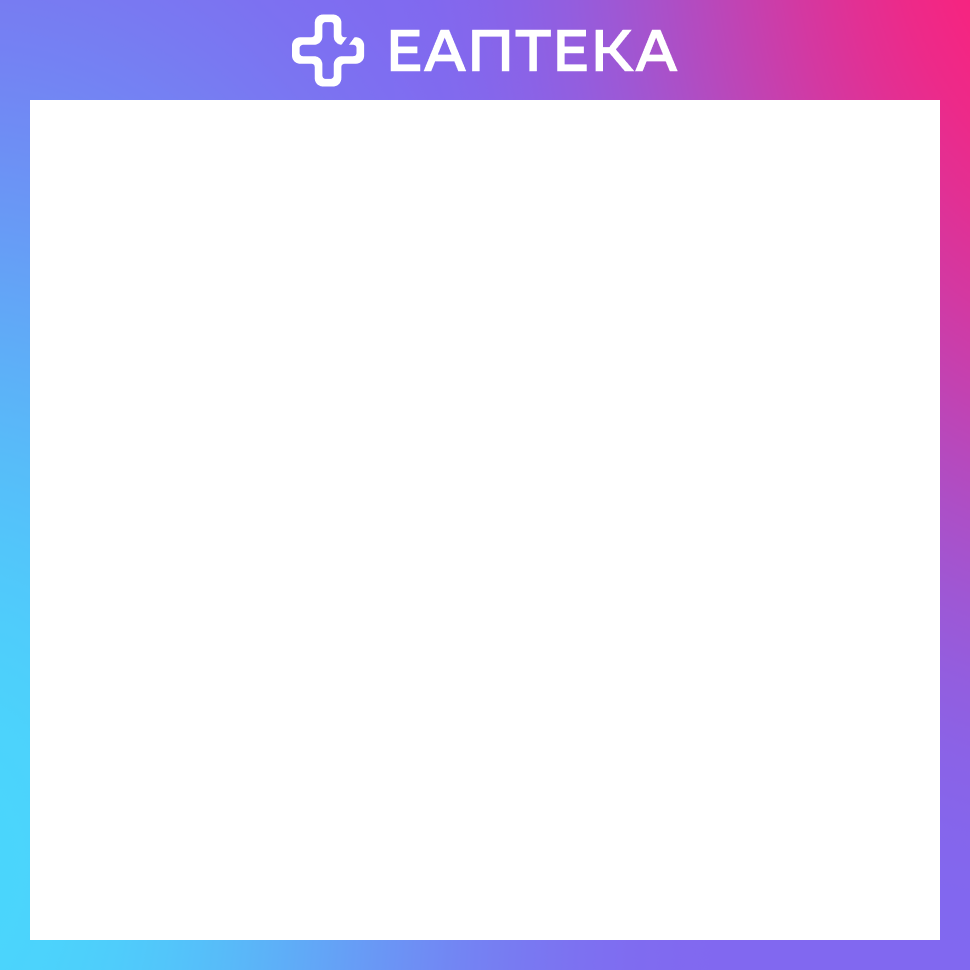
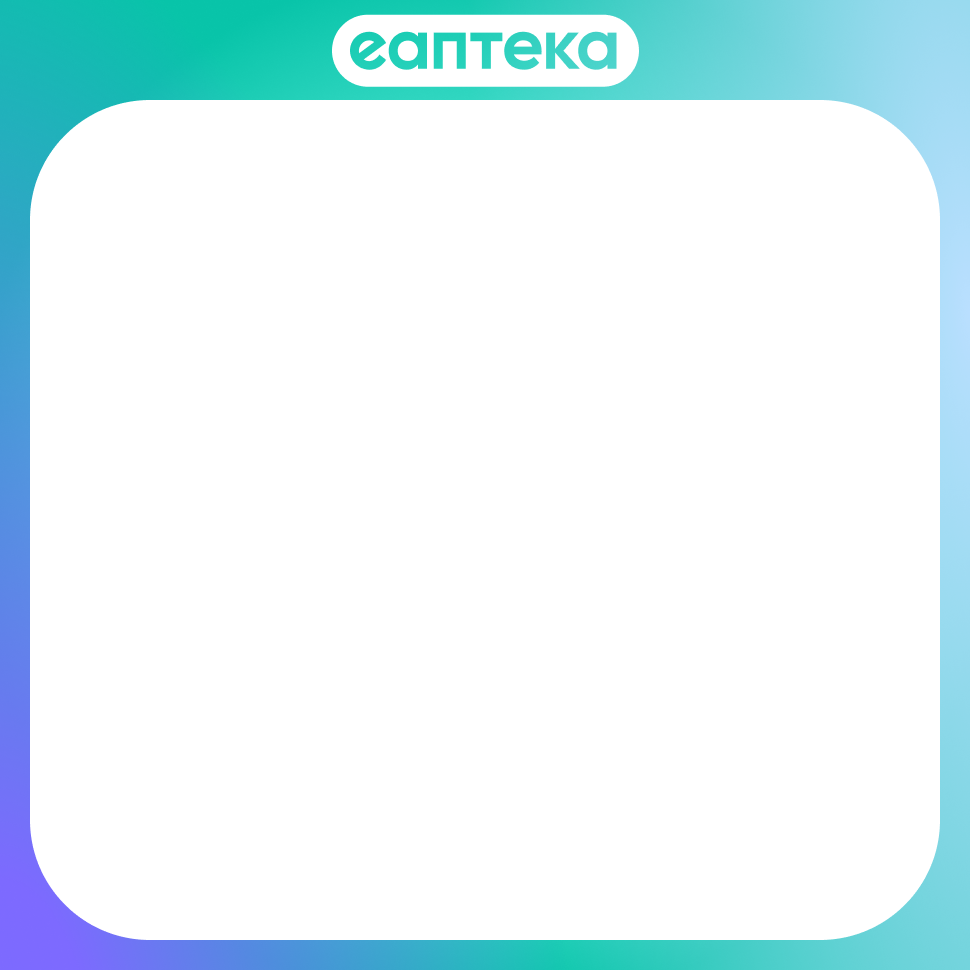
PRO-142: update url_filter method and added new frame

Changed region(s): [[0.0, 0.0, 1.0, 1.0]]

diff --git a/handler/feeds_handler.py b/handler/feeds_handler.py
@@ -2,8 +2,8 @@ import logging
 import xml.etree.ElementTree as ET
 
 from handler.allowed_urls import ALLOWED_URLS
-from handler.constants import (ADDRESS, DOMEN_FTP, FEEDS_FOLDER,
-                               NEW_FEEDS_FOLDER, NEW_IMAGE_FOLDER, PROTOCOL)
+from handler.constants import (ADDRESS_FTP_IMAGES, FEEDS_FOLDER, NEW_FEEDS_FOLDER,
+                               NEW_IMAGE_FOLDER)
 from handler.decorators import time_of_function, try_except
 from handler.feeds import FEEDS
 from handler.logging_config import setup_logging
@@ -134,8 +134,7 @@ class FeedHandler(FileMixin):
 
                     picture_tag = ET.SubElement(offer, 'picture')
                     picture_tag.text = (
-                        f'{PROTOCOL}://{DOMEN_FTP}/'
-                        f'{ADDRESS}/{image_dict[offer_id]}'
+                        f'{ADDRESS_FTP_IMAGES}/{image_dict[offer_id]}'
                     )
                     input_images += 1
                     self._is_modified = True
@@ -154,8 +153,9 @@ class FeedHandler(FileMixin):
         self,
         param: str = 'referrer=reattribution%3D1'
     ):
-        suitable_urls = 0
-        skipped_urls = 0
+        suitable_offers = 0
+        deleted_offers = 0
+        to_remove = []
         try:
             offers = self.root.findall('.//offer')
             for offer in offers:
@@ -170,22 +170,29 @@ class FeedHandler(FileMixin):
                 url_without_parameters = url.split('?')[0]
 
                 if url_without_parameters not in ALLOWED_URLS:
-                    skipped_urls += 1
+                    to_remove.append(offer)
+                    deleted_offers += 1
                     continue
 
-                new_url = url_without_parameters + param
+                new_url = url_without_parameters + '?' + param
                 url_elem.text = new_url
-                suitable_urls += 1
+                suitable_offers += 1
+
+            for offer in to_remove:
+                parent = offer.getparent()
+                if parent is not None:
+                    parent.remove(offer)
+
                 new_filename = f'dyn_{self.filename}'
             logging.info(
                 'Подходищие urls в фиде %s - %s',
                 self.filename,
-                suitable_urls
+                suitable_offers
             )
             logging.info(
-                'Неподходящие urls в фиде %s - %s',
+                'Удалено неподходящих urls в фиде %s - %s',
                 self.filename,
-                skipped_urls
+                deleted_offers
             )
 
             self._save_xml(self.root, 'join_feeds', new_filename)

diff --git a/handler/constants.py b/handler/constants.py
@@ -28,14 +28,8 @@ DELAY_FOR_RETRY = (5, 15, 30)
 MAX_WORKERS = 5
 """Количество одновременно запущенных потоков."""
 
-PROTOCOL = 'https'
-"""Протокол запроса."""
-
-ADDRESS = 'projects/eapteka/new_images'
-"""Путь к файлу."""
-
-DOMEN_FTP = 'feeds.i-media.ru'
-"""Домен FTP-сервера."""
+ADDRESS_FTP_IMAGES = 'https://feeds.i-media.ru/projects/eapteka/new_image'
+"""Адрес директории на ftp для изображений."""
 
 DEFAULT_IMAGE_SIZE = (1000, 1000)
 """
